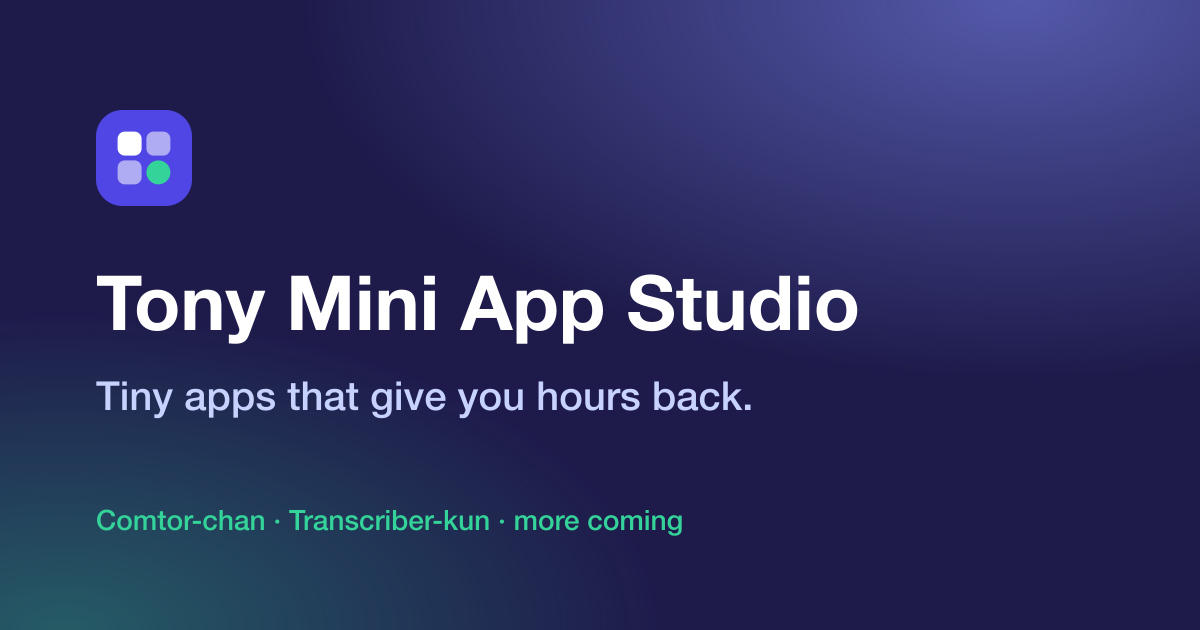
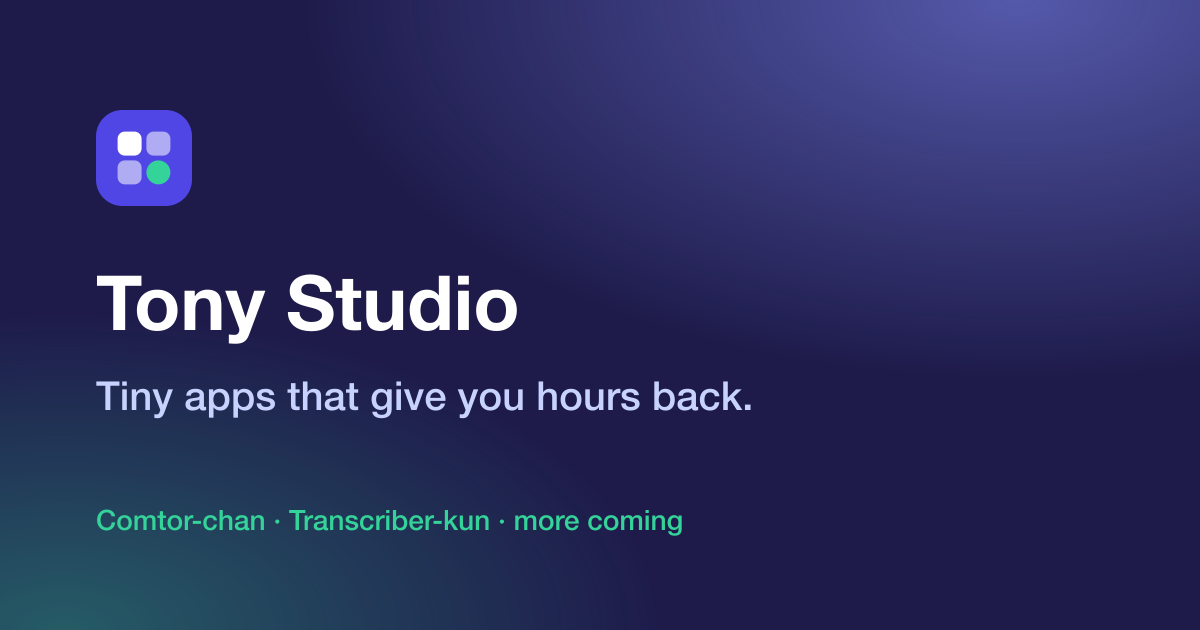
chore: rename brand to Tony Studio
Mini apps remain the studio's theme in the copy; the brand name is now Tony Studio
(header, footer, meta titles, OG image).

Changed region(s): [[0.2158, 0.4222, 0.74, 0.5429]]

diff --git a/src/i18n/ui.ts b/src/i18n/ui.ts
@@ -27,9 +27,9 @@ export function isLocale(value: string | undefined): value is Locale {
 }
 
 const en = {
-  'meta.title': 'Tony Mini App Studio: tiny apps for productive work',
+  'meta.title': 'Tony Studio: tiny apps for productive work',
   'meta.description':
-    'Tony Mini App Studio builds small, focused tools that remove one tedious task from your workday. Meet Comtor-chan and Transcriber-kun.',
+    'Tony Studio builds small, focused tools that remove one tedious task from your workday. Meet Comtor-chan and Transcriber-kun.',
 
   'nav.apps': 'Apps',
   'nav.philosophy': 'Philosophy',
@@ -42,13 +42,13 @@ const en = {
   'hero.title.lead': 'Tiny apps that give you',
   'hero.title.highlight': 'hours back.',
   'hero.subtitle':
-    'Tony Mini App is a studio that builds small, focused tools. Each one removes one tedious task from your workday, and does that one job really well.',
+    'Tony Studio builds small, focused tools we call mini apps. Each one removes one tedious task from your workday, and does that one job really well.',
   'hero.primary': 'Explore the apps',
   'hero.secondary': 'Why mini?',
   'hero.stat.apps': 'mini apps shipped',
   'hero.stat.languages': 'languages supported',
   'hero.stat.focus': 'job per app, done well',
-  'hero.visual.label': 'A home screen of Tony mini apps',
+  'hero.visual.label': 'A home screen of Tony Studio mini apps',
 
   'apps.eyebrow': 'The collection',
   'apps.title': 'Meet the mini apps',
@@ -107,9 +107,9 @@ export type UIKey = keyof typeof en;
 export const ui: Localized<Record<UIKey, string>> = {
   en,
   ja: {
-    'meta.title': 'Tony Mini App Studio｜仕事を速くする小さなアプリ',
+    'meta.title': 'Tony Studio｜仕事を速くする小さなアプリ',
     'meta.description':
-      'Tony Mini App Studio は、仕事の「ちょっと面倒」をひとつずつ解消する小さなツールをつくるスタジオです。Comtor ちゃん、Transcriber くんを紹介します。',
+      'Tony Studio は、仕事の「ちょっと面倒」をひとつずつ解消する小さなツールをつくるスタジオです。Comtor ちゃん、Transcriber くんを紹介します。',
 
     'nav.apps': 'アプリ',
     'nav.philosophy': '考え方',
@@ -122,13 +122,13 @@ export const ui: Localized<Record<UIKey, string>> = {
     'hero.title.lead': '小さなアプリで、',
     'hero.title.highlight': '時間を取り戻す。',
     'hero.subtitle':
-      'Tony Mini App は、小さくて頼れるツールをつくるスタジオです。ひとつのアプリが、仕事の中の面倒な作業をひとつだけ、確実に片づけます。',
+      'Tony Studio は、小さくて頼れるミニアプリをつくるスタジオです。ひとつのアプリが、仕事の中の面倒な作業をひとつだけ、確実に片づけます。',
     'hero.primary': 'アプリを見る',
     'hero.secondary': 'なぜ「ミニ」？',
     'hero.stat.apps': '個のミニアプリを公開中',
     'hero.stat.languages': '言語に対応',
     'hero.stat.focus': 'アプリにつき、ひとつの役割',
-    'hero.visual.label': 'Tony ミニアプリが並ぶホーム画面',
+    'hero.visual.label': 'Tony Studio のミニアプリが並ぶホーム画面',
 
     'apps.eyebrow': 'コレクション',
     'apps.title': 'ミニアプリ一覧',
@@ -182,9 +182,9 @@ export const ui: Localized<Record<UIKey, string>> = {
     'footer.rights': 'All rights reserved.',
   },
   vi: {
-    'meta.title': 'Tony Mini App Studio: app nhỏ cho công việc hiệu quả',
+    'meta.title': 'Tony Studio: app nhỏ cho công việc hiệu quả',
     'meta.description':
-      'Tony Mini App Studio tạo ra những công cụ nhỏ gọn, mỗi công cụ loại bỏ một việc phiền phức trong ngày làm việc của bạn. Gặp gỡ Comtor-chan và Transcriber-kun.',
+      'Tony Studio tạo ra những công cụ nhỏ gọn, mỗi công cụ loại bỏ một việc phiền phức trong ngày làm việc của bạn. Gặp gỡ Comtor-chan và Transcriber-kun.',
 
     'nav.apps': 'Ứng dụng',
     'nav.philosophy': 'Triết lý',
@@ -197,13 +197,13 @@ export const ui: Localized<Record<UIKey, string>> = {
     'hero.title.lead': 'Những app nhỏ giúp bạn',
     'hero.title.highlight': 'lấy lại hàng giờ.',
     'hero.subtitle':
-      'Tony Mini App là studio tạo ra những công cụ nhỏ gọn, tập trung. Mỗi app loại bỏ một việc phiền phức trong ngày làm việc và làm thật tốt đúng việc đó.',
+      'Tony Studio là studio tạo ra những mini app nhỏ gọn, tập trung. Mỗi app loại bỏ một việc phiền phức trong ngày làm việc và làm thật tốt đúng việc đó.',
     'hero.primary': 'Khám phá ứng dụng',
     'hero.secondary': 'Vì sao lại “mini”?',
     'hero.stat.apps': 'mini app đã ra mắt',
     'hero.stat.languages': 'ngôn ngữ được hỗ trợ',
     'hero.stat.focus': 'việc cho mỗi app, làm thật tốt',
-    'hero.visual.label': 'Màn hình chính với các mini app của Tony',
+    'hero.visual.label': 'Màn hình chính với các mini app của Tony Studio',
 
     'apps.eyebrow': 'Bộ sưu tập',
     'apps.title': 'Các mini app',

diff --git a/src/data/site.ts b/src/data/site.ts
@@ -1,7 +1,6 @@
 /** Studio-wide settings. Edit here rather than in components. */
 export const site = {
-  name: 'Tony Mini App',
-  studio: 'Tony Mini App Studio',
+  name: 'Tony Studio',
   /** Where "Share an idea" / "Suggest an idea" buttons point. Swap for a form or mailto: if preferred. */
   contactUrl: 'https://github.com/tungtobe',
   githubUrl: 'https://github.com/tungtobe',

diff --git a/src/styles/global.css b/src/styles/global.css
@@ -1,7 +1,7 @@
 @import "tailwindcss";
 
 /*
- * Design tokens (ui-ux-pro-max: "Tony Mini App" design system).
+ * Design tokens (ui-ux-pro-max: "Tony Studio" design system).
  * Indigo primary + emerald accent, Plus Jakarta Sans, spacious density.
  * Values were darkened from the generated palette to hit WCAG AA (≥ 4.5:1) for text on buttons.
  */

diff --git a/README.md b/README.md
@@ -1,6 +1,6 @@
-# Tony Mini App Studio: Landing Page
+# Tony Studio: Landing Page
 
-Landing page for **Tony Mini App**, a studio that builds tiny productivity apps.
+Landing page for **Tony Studio**, a studio whose theme is tiny productivity apps ("mini apps").
 Built with [Astro](https://astro.build) + Tailwind CSS v4, fully static, deployed on Vercel.
 
 - 🌐 i18n: English (default, `/`), Japanese (`/ja/`), Vietnamese (`/vi/`)
